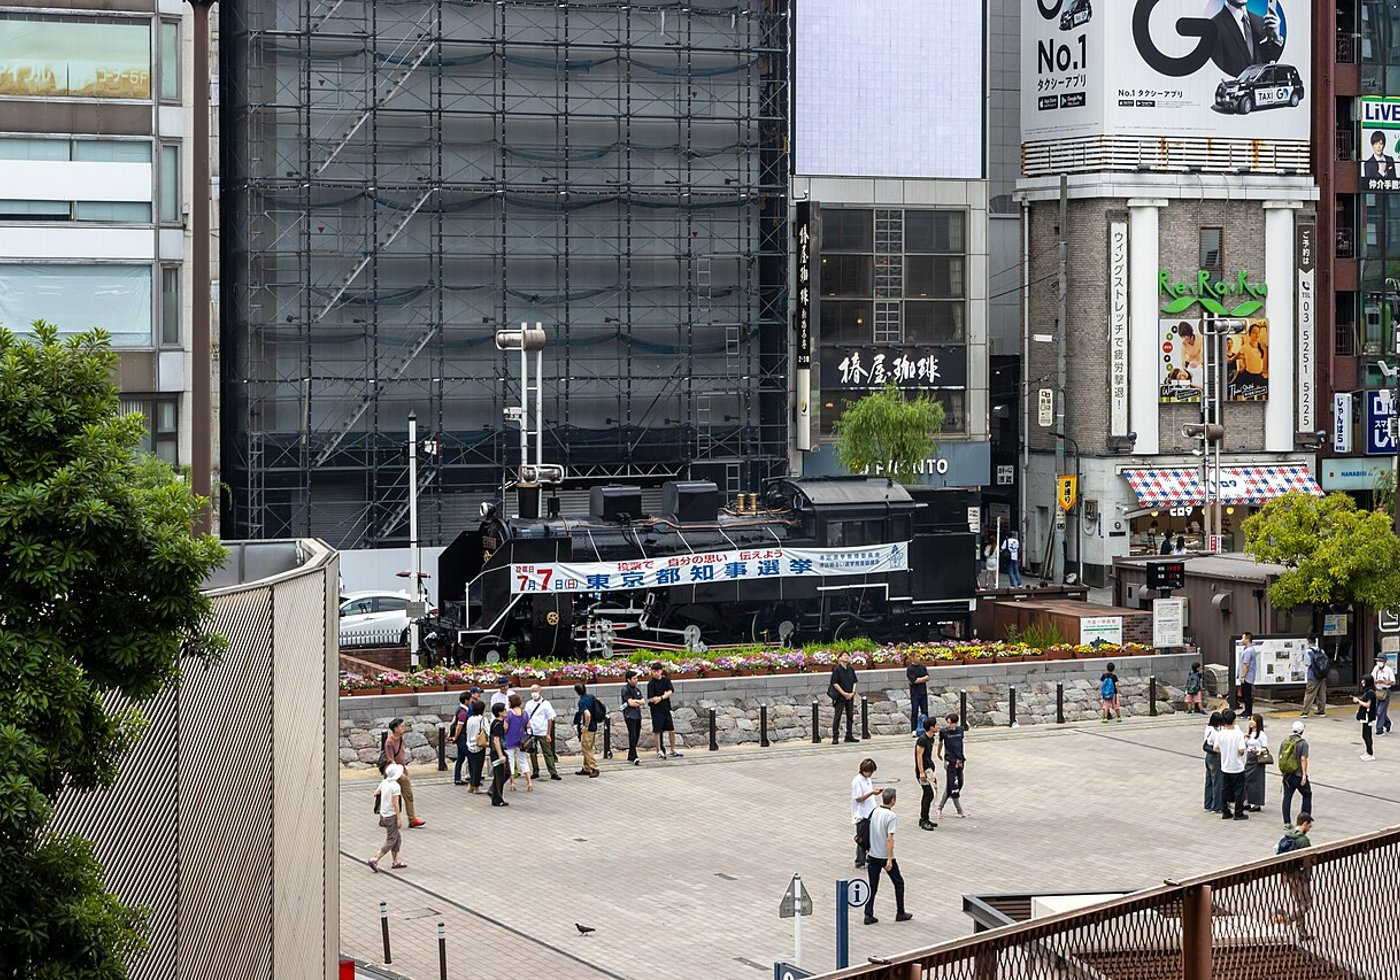
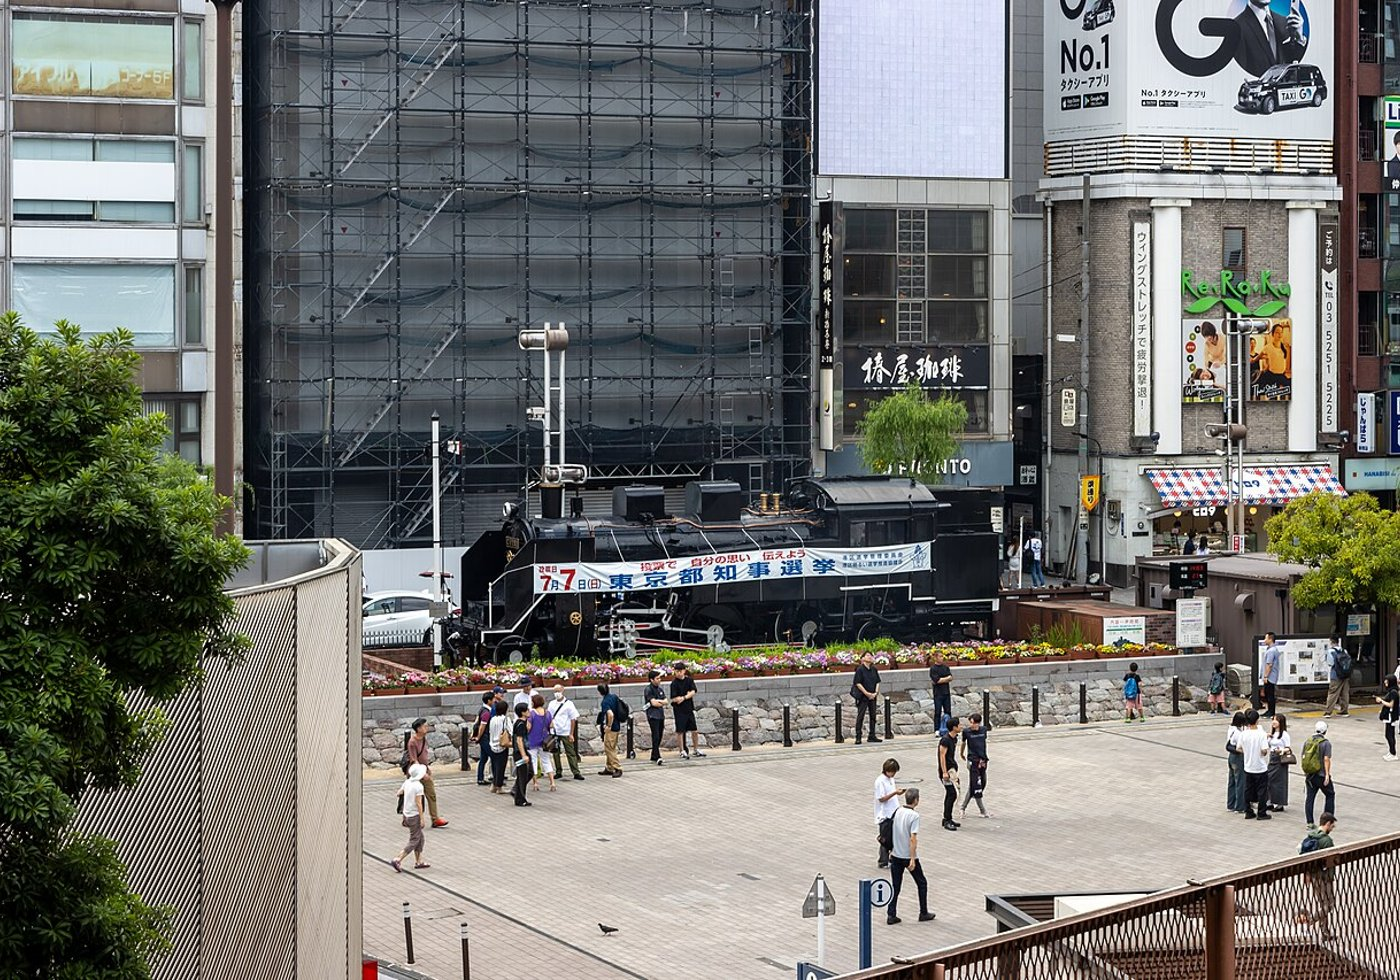
Fix mobile hero headline size, nav overflow, hero crop

diff --git a/index.html b/index.html
@@ -35,6 +35,7 @@ nav.main{display:flex;gap:20px}
 nav.main a{text-decoration:none;font-size:13px;color:var(--ink);white-space:nowrap}
 nav.main a:hover{color:var(--red)}
 @media(max-width:560px){nav.main{gap:13px}nav.main a{font-size:12px}.logo{font-size:16px}}
+@media(max-width:480px){nav.main a:last-child{display:none}nav.main{gap:11px}}
 
 /* hero */
 .hero{position:relative;background:var(--navy)}
@@ -42,9 +43,9 @@ nav.main a:hover{color:var(--red)}
 .hero-grid figure{overflow:hidden}
 .hero-grid img{width:100%;height:100%;object-fit:cover}
 .hero-grid .a{grid-row:1/3}
-.hero-cap{position:absolute;left:0;right:0;bottom:0;padding:56px 0 26px;background:linear-gradient(transparent,rgba(8,12,20,.82));color:#fff}
-.hero-cap .kicker{font-size:12.5px;letter-spacing:.14em;color:#f0c9cb;margin-bottom:6px}
-.hero-cap h1{font-family:var(--serif);font-weight:700;font-size:clamp(21px,5.6vw,42px);line-height:1.35;white-space:nowrap}
+.hero-cap{position:absolute;left:0;right:0;bottom:0;padding:72px 0 26px;background:linear-gradient(transparent 0%,rgba(8,12,20,.45) 42%,rgba(8,12,20,.88) 100%);color:#fff}
+.hero-cap .kicker{font-size:12.5px;letter-spacing:.14em;color:#f0c9cb;margin-bottom:6px;text-shadow:0 1px 6px rgba(0,0,0,.6)}
+.hero-cap h1{font-family:var(--serif);font-weight:700;font-size:clamp(16px,5.2vw,42px);line-height:1.35;white-space:nowrap;text-shadow:0 1px 8px rgba(0,0,0,.55)}
 .hero-cap p{margin-top:8px;font-size:clamp(12.5px,2.6vw,15px);color:#e8ebf0;max-width:640px}
 @media(max-width:560px){.hero-grid{height:46vh}}
 
